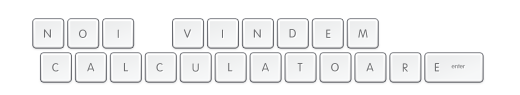
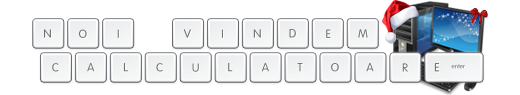
mos craciun

Changed region(s): [[0.7077, 0.0, 0.9538, 1.0]]

diff --git a/atexpc/atex_web/static/css/style.css b/atexpc/atex_web/static/css/style.css
@@ -65,8 +65,11 @@ html, body { height: 100%;  }
 .footer_wrapper, .push { height: 200px; }
 .wrapper {
 	border-top:5px solid #cd2325;
-	background:url(../images/bg_dark.png) repeat;
-	/*background-color:#3d97cb;*/
+	border-top: 5px solid #cd2325;
+background: url('/static/images/mos_craciun.png'), url('/static/images/bg_dark.png?2864e47cbaec');
+background-repeat: no-repeat, repeat;
+background-position: center top, center top;
+background-color: #6daece;
 }
 .page_wrapper {
 	width:1140px;
@@ -83,7 +86,7 @@ html, body { height: 100%;  }
 }
 .logo {
 	float:left;
-	margin-top:15px;
+	margin-top:25px;
 }
 .login_holder {
 	position:absolute;
@@ -188,7 +191,7 @@ position:relative;
 }
 .advertising_top {
 	float:left;
-	margin:20px 0 0 33px;
+	margin:40px 0 0 5px;
 }
 .advertising_top ul li {
 	margin-left:25px;
@@ -213,6 +216,7 @@ position:relative;
 .info_cos {
 	float:right;
 	margin-top:20px;
+	width:260px;
 }
 .wellcome {
 	width:100%;

diff --git a/atexpc/atex_web/templates/base.html b/atexpc/atex_web/templates/base.html
@@ -32,7 +32,7 @@
 	<div class="page_wrapper clear" id="wrap2">
     	<div class="header">
             <div class="logo">
-                <a href="{% url "home" %}"><img src="{{ site_info.logo_url }}" width="300" height="100" alt="atex logo" title="{{ site_info.domain }}" name="{{ site_info.domain }}"/></a>
+                <a href="{% url "home" %}"><img src="{{ site_info.logo_url }}" width="330" height="110" alt="atex logo" title="{{ site_info.domain }}" name="{{ site_info.domain }}"/></a>
             </div>
             <div class="login_holder">
             	<span class="down_left"></span>
